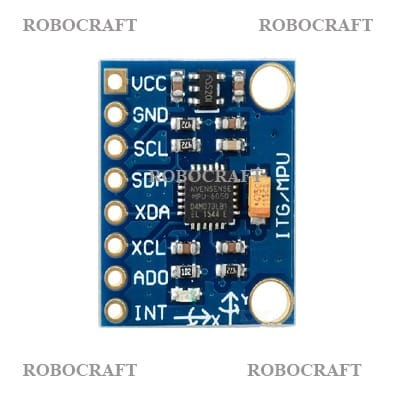
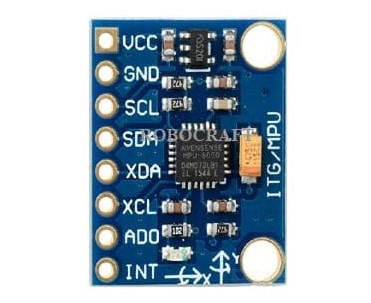
chore: update project details, format table of contents, and adjust figure layouts in main.tex

diff --git a/main.tex b/main.tex
@@ -80,6 +80,10 @@
 \renewcommand{\bibname}{References}
 \setcounter{tocdepth}{1}
 
+\usepackage[titles]{tocloft}
+\renewcommand{\cftchapfont}{\normalfont\bfseries\itshape}
+\renewcommand{\cftchappagefont}{\normalfont\bfseries\itshape}
+
 \begin{document}
 
 % ==================== PAGE 1: TITLE PAGE ====================
@@ -93,11 +97,11 @@
 \vspace{0.8in}
 {\fontsize{14}{18}\selectfont By\par}
 \vspace{0.2in}
-{\fontsize{18}{22}\selectfont\bfseries Sohan Ghosh \\ (Roll No. ....................)\par}
+{\fontsize{18}{22}\selectfont\bfseries Sohan Ghosh \\ (Roll No. 34900323050)\par}
 \vspace{0.8in}
 {\fontsize{14}{18}\selectfont Under the Guidance of\par}
 \vspace{0.2in}
-{\fontsize{16}{20}\selectfont Project Supervisor/(s): .................... \\ Technical Facilitator: ....................\par}
+{\fontsize{16}{20}\selectfont Project Supervisor: Dr. Gautam Das\par}
 \vfill
 {\fontsize{14}{18}\selectfont Department of Electronics and Communication Engineering \\ Cooch Behar Government Engineering College \\ Cooch Behar, West Bengal \\ 2026\par}
 \vspace*{0.2in}
@@ -105,41 +109,28 @@
 
 \pagenumbering{roman}
 
-% ==================== PAGE 2: ACKNOWLEDGEMENT ====================
+% ==================== PAGE 2: ACKNOWLEDGEMENT & MEMBERS ====================
 \newpage
 \chapter*{Acknowledgement}
 \addcontentsline{toc}{chapter}{Acknowledgement}
-\vspace{0.2in}
-First and foremost, I would like to express my deep sense of gratitude to our project supervisor and the Department of Electronics and Communication Engineering at Cooch Behar Government Engineering College for providing me with the opportunity to work on this interesting mini project. Their constant guidance, technical feedback, and continuous support have been instrumental in the successful completion of this design and prototype realization.\par
+\vspace{0.1in}
+First and foremost, I would like to express my deep sense of gratitude to our project supervisor, Dr. Gautam Das, and the Department of Electronics and Communication Engineering at Cooch Behar Government Engineering College for providing me with the opportunity to work on this interesting mini project. His constant guidance, technical feedback, and continuous support have been instrumental in the successful completion of this design and prototype realization.\par
 \medskip
-I am also very thankful to the technical facilitators and laboratory instructors who provided the necessary electronic components, testing equipment, and workspace to construct and test the robotic vehicle. Their practical advice on circuit wiring, soldering, and troubleshooting wireless signal interference was extremely helpful.\par
-\medskip
-Finally, I would like to thank my family, friends, and peers for their constant encouragement and helpful suggestions throughout the duration of this work. This project has given me valuable experience in hardware-software integration, sensor interfacing, and wireless communication protocols.\par
-\vspace{1.5in}
-\begin{flushright}
-\textbf{Sohan Ghosh} \\
-B.Tech ECE, Year 2026 \\
-Cooch Behar Engineering College
-\end{flushright}
-\clearpage
+I am also very thankful to the technical facilitators and laboratory instructors who provided the necessary electronic components, testing equipment, and workspace to construct and test the robotic vehicle. Finally, I would like to thank my family, friends, and peers for their constant encouragement and support throughout this work, which has given me valuable experience in hardware-software integration, sensor interfacing, and wireless communication protocols.\par
 
-% ==================== PAGE 3: PROJECT MEMBERS ====================
-\chapter*{Project Members}
-\addcontentsline{toc}{chapter}{Project Members}
 \vspace{0.2in}
-This mini project has been carried out and completed by the following student members of the Department of Electronics and Communication Engineering, Cooch Behar Government Engineering College. The signatures below certify that this report represents the original work done by the respective members.\par
-\vspace{0.8in}
-\begin{table}[h!]
-\centering
+\section*{Project Members}
+\vspace{0.05in}
+\begin{center}
 \begin{tabular}{|C{4.5cm}|C{5.0cm}|C{5.0cm}|}
 \hline
 \textbf{Roll No.} & \textbf{Name of the Member} & \textbf{Signature of the Member} \\ \hline
-.................... & Sohan Ghosh & \rule{0pt}{5ex} \\ \hline
-.................... & .................... & \rule{0pt}{5ex} \\ \hline
-.................... & .................... & \rule{0pt}{5ex} \\ \hline
-.................... & .................... & \rule{0pt}{5ex} \\ \hline
[phone redacted] & Sohan Ghosh & \rule{0pt}{4ex} \\ \hline
+.................... & .................... & \rule{0pt}{4ex} \\ \hline
+.................... & .................... & \rule{0pt}{4ex} \\ \hline
+.................... & .................... & \rule{0pt}{4ex} \\ \hline
 \end{tabular}
-\end{table}
+\end{center}
 \clearpage
 
 % ==================== PAGE 4: PUBLICATIONS AND ACRONYMS ====================
@@ -175,7 +166,12 @@ MEMS & Micro-Electro-Mechanical Systems \\ \hline
 
 % ==================== PAGE 5: TABLE OF CONTENTS ====================
 \begin{singlespace}
+\begingroup
+\titleformat{\chapter}[block]
+  {\normalfont\fontsize{22}{26}\selectfont\bfseries\itshape\raggedright}
+  {}{0pt}{}
 \tableofcontents
+\endgroup
 \end{singlespace}
 \clearpage
 
@@ -301,7 +297,7 @@ Two 18650 Lithium-Ion cells in series provide a 7.4V pack to power the motor dri
 The transmitter module reads hand tilt and sends movement codes wirelessly. The MPU6050 accelerometer detects changes in gravity along the X and Y axes as the hand tilts. The transmitter ESP32 communicates with the MPU6050 via the hardware I2C bus. The connections are wired as follows: VCC of MPU6050 is connected to the 3.3V pin of the ESP32, GND is connected to the common ground (GND), SCL is connected to GPIO 22, and SDA is connected to GPIO 21. The code compares these readings against calibrated thresholds to determine if the hand is tilted forward, backward, left, or right. Figure \ref{fig:block_diag} shows the overall system block diagram.\par
 \vspace{0.15in}
 \begin{center}
-\includegraphics[width=1.0\textwidth,height=9.2cm,keepaspectratio=true]{images/block-diagram.png}
+\makebox[\textwidth][c]{\includegraphics[width=1.1\textwidth,height=10.2cm,keepaspectratio=true]{images/block-diagram.png}}
 \captionof{figure}{Gesture-Controlled Car System Block Diagram showing the ESP32 transmitter and receiver architecture}
 \label{fig:block_diag}
 \end{center}
@@ -325,7 +321,7 @@ SDA & GPIO 21 & I2C Serial Data \\ \hline
 The receiver chassis decodes the ESP-NOW signals and drives the motors. The receiver ESP32 decodes the signals and determines the movement state. It then controls two L298N motor drivers. Since this is a 4-wheel drive car, the motors are paired: the front-left and back-left motors are driven together, and the front-right and back-right motors are driven together. Figure \ref{fig:l298n_bb} shows the wiring connections between the ESP32 and the L298N motor driver. The pins are configured as shown in Tables \ref{tab:pins_front} and \ref{tab:pins_back}.\par
 \vspace{0.15in}
 \begin{center}
-\includegraphics[width=0.95\textwidth,height=7.8cm,keepaspectratio=true]{images/l298n_motordriver_pinout_bb.png}
+\makebox[\textwidth][c]{\includegraphics[width=1.05\textwidth,height=9.2cm,keepaspectratio=true]{images/l298n_motordriver_pinout_bb.png}}
 \captionof{figure}{Fritzing Wiring Diagram showing L298N Motor Driver connections to ESP32 Receiver}
 \label{fig:l298n_bb}
 \end{center}